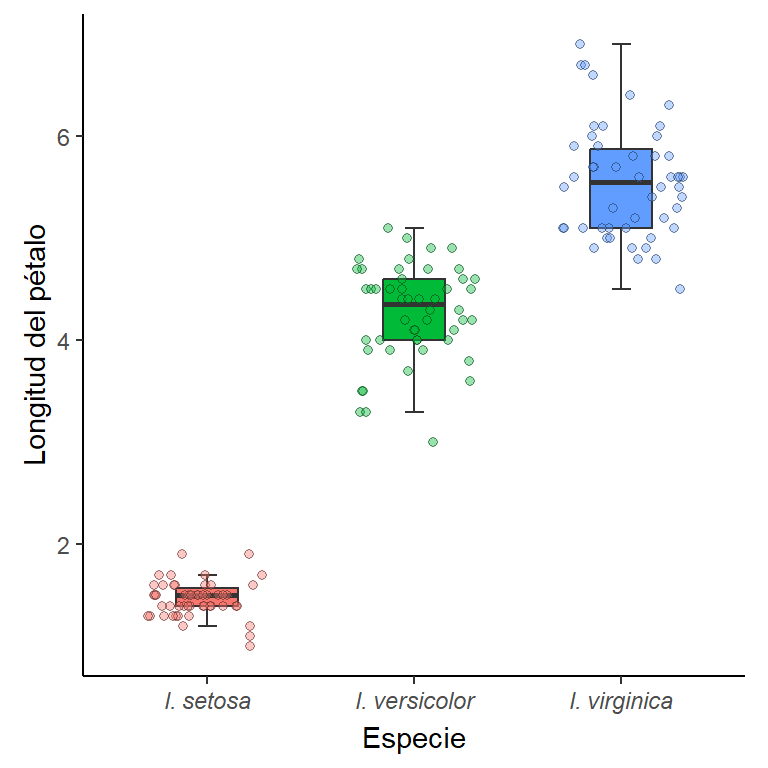
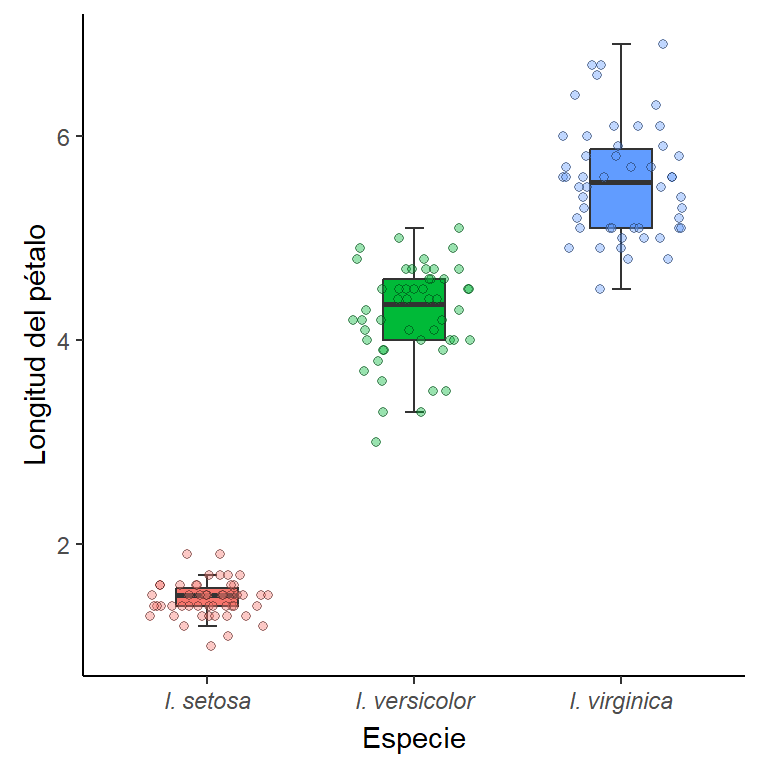
Publish site to docs/

diff --git a/docs/unidad4/GraficosBase.html b/docs/unidad4/GraficosBase.html
@@ -307,7 +307,7 @@ pre > code.sourceCode > span > a:first-child::before { text-decoration: underlin
 </li>
           <li class="sidebar-item">
   <div class="sidebar-item-container"> 
-  <a href="../ggplot2.qmd" class="sidebar-item-text sidebar-link">
+  <a href="../unidad4/ggplot2.html" class="sidebar-item-text sidebar-link">
  <span class="menu-text">Gráficos con <em>ggplot2</em></span></a>
   </div>
 </li>
@@ -400,8 +400,8 @@ pre > code.sourceCode > span > a:first-child::before { text-decoration: underlin
 <p>La representación gráfica de datos y resultados es una parte importante de nuestro quehacer habitual en ámbitos académicos y científicos. Una de las razones de la gran popularidad de R yace en su excelente apartado gráfico, con el cual se pueden producir gráficos de buena calidad listos para publicar. De forma general, existen <u id="comentario">dos métodos principales</u> para realizar gráficos en R: el basado en el sistema básico de <code>R base</code> y el basado en el paquete <code>ggplot2</code>. Ambas opciones poseen sus propias ventajas y desventajas y generalmente son usados a la par. Es decir, en algunas ocasiones convendrá o será más cómodo, utilizar uno y, en otras ocasiones, será mejor opción el otro.</p>
 <div class="cell">
 <div class="cell-output-display">
-<span class="tippy html-widget html-fill-item" height="464px" id="htmlwidget-44e0b6c86a6d7bf6f5b7" width="100%"></span>
-<script type="application/json" data-for="htmlwidget-44e0b6c86a6d7bf6f5b7">{"x":{"element":"comentario","opts":{"content":"<span style='font-size:14px;'>Existen otros paquetes que profundizan funcionalidades específicas que trascienden los objetivos de este curso. Aquí puede encontrar <a href='https://www.geeksforgeeks.org/top-r-libraries-for-data-visualization/' target='_blank'>una lista de los paquetes top en 2024<\/a> según un sitio especializado.<\/span>","interactive":"true"}},"evals":[],"jsHooks":[]}</script>
+<span class="tippy html-widget html-fill-item" height="464px" id="htmlwidget-fd6f1892f0e810638429" width="100%"></span>
+<script type="application/json" data-for="htmlwidget-fd6f1892f0e810638429">{"x":{"element":"comentario","opts":{"content":"<span style='font-size:14px;'>Existen otros paquetes que profundizan funcionalidades específicas que trascienden los objetivos de este curso. Aquí puede encontrar <a href='https://www.geeksforgeeks.org/top-r-libraries-for-data-visualization/' target='_blank'>una lista de los paquetes top en 2024<\/a> según un sitio especializado.<\/span>","interactive":"true"}},"evals":[],"jsHooks":[]}</script>
 </div>
 </div>
 <p>En esta clase veremos como construir gráficos con <code>R base</code>. Para empezar, definiremos un concepto relativo al <em>nivel</em> de la función utilizada. Cuando grafiquemos podremos utilizaremos funciones de <em>alto nivel</em>, que son aquellas funciones que crean nuevos gráficos, generalmente junto a los principales ejes, etiquetas ó títulos (e.g.&nbsp;<code>plot()</code>, <code>hist()</code>, etc.); y funciones de <em>bajo nivel</em>, que son aquellas con las que podremos añadir elementos extras a un gráfico ya creado, como puntos, líneas, flechas u otras etiquetas (e.g.&nbsp;<code>points()</code>, <code>text()</code>, etc.). La <strong>combinación de funciones de alto y bajo nivel nos permite realizar una enorme personalización del gráfico</strong>, aunque en algunas ocasiones esto puede llevar a que tengamos que definir cada aspecto del mismo. Este compromiso entre el nivel de personalización deseado y la cantidad de líneas de código necesarias puede parecer un poco abrumador al comienzo; pero, luego de un tiempo, en general optaremos siempre por una completa personalización. Sumado a esto, con el tiempo acumularemos plantillas propias para ciertos tipos de gráficos que realicemos frecuentemente, y solo nos bastará con cambiar los datos y algunos parámetros menores para obtener un nuevo gráfico listo para su publicación (o al menos su revisión 😬).</p>
@@ -624,17 +624,17 @@ Coefficients:
 <span id="cb10-6"><a href="#cb10-6" aria-hidden="true" tabindex="-1"></a>                           )</span>
 <span id="cb10-7"><a href="#cb10-7" aria-hidden="true" tabindex="-1"></a>toplot[<span class="fu">sample</span>(<span class="fu">nrow</span>(toplot), <span class="dv">10</span>),]</span></code><button title="Copiar" class="code-copy-button"><i class="bi"></i></button></pre></div>
 <div class="cell-output cell-output-stdout">
-<pre><code>   Sepal.Length Petal.Length    Species   Spe.Color
-82          5.5          3.7 versicolor  dodgerblue
-14          4.3          1.1     setosa forestgreen
-70          5.6          3.9 versicolor  dodgerblue
-32          5.4          1.5     setosa forestgreen
-37          5.5          1.3     setosa forestgreen
-98          6.2          4.3 versicolor  dodgerblue
-68          5.8          4.1 versicolor  dodgerblue
-65          5.6          3.6 versicolor  dodgerblue
-76          6.6          4.4 versicolor  dodgerblue
-22          5.1          1.5     setosa forestgreen</code></pre>
+<pre><code>    Sepal.Length Petal.Length    Species   Spe.Color
+111          6.5          5.1  virginica         red
+141          6.7          5.6  virginica         red
+31           4.8          1.6     setosa forestgreen
+17           5.4          1.3     setosa forestgreen
+53           6.9          4.9 versicolor  dodgerblue
+85           5.4          4.5 versicolor  dodgerblue
+25           4.8          1.9     setosa forestgreen
+36           5.0          1.2     setosa forestgreen
+96           5.7          4.2 versicolor  dodgerblue
+121          6.9          5.7  virginica         red</code></pre>
 </div>
 </div>
 <div class="cell" data-layout-align="center">

diff --git a/docs/unidad5/Funciones.html b/docs/unidad5/Funciones.html
@@ -291,7 +291,7 @@ pre > code.sourceCode > span > a:first-child::before { text-decoration: underlin
 </li>
           <li class="sidebar-item">
   <div class="sidebar-item-container"> 
-  <a href="../ggplot2.qmd" class="sidebar-item-text sidebar-link">
+  <a href="../unidad4/ggplot2.html" class="sidebar-item-text sidebar-link">
  <span class="menu-text">Gráficos con <em>ggplot2</em></span></a>
   </div>
 </li>
@@ -491,7 +491,7 @@ pre > code.sourceCode > span > a:first-child::before { text-decoration: underlin
 <div class="sourceCode cell-code" id="cb21"><pre class="sourceCode r code-with-copy"><code class="sourceCode r"><span id="cb21-1"><a href="#cb21-1" aria-hidden="true" tabindex="-1"></a>pesos_aleatorios <span class="ot">&lt;-</span> <span class="fu">sample</span>(<span class="fu">c</span>(<span class="fl">0.5</span>, <span class="fl">0.75</span>, <span class="dv">1</span>), <span class="fu">length</span>(<span class="dv">1</span><span class="sc">:</span><span class="dv">30</span>), <span class="at">replace =</span> <span class="cn">TRUE</span>)</span>
 <span id="cb21-2"><a href="#cb21-2" aria-hidden="true" tabindex="-1"></a><span class="fu">valor_promedio</span>(<span class="at">x =</span> <span class="dv">1</span><span class="sc">:</span><span class="dv">30</span>, <span class="at">pesos =</span> pesos_aleatorios)</span></code><button title="Copiar" class="code-copy-button"><i class="bi"></i></button></pre></div>
 <div class="cell-output cell-output-stdout">
-<pre><code>[1] 11.85833</code></pre>
+<pre><code>[1] 11.38333</code></pre>
 </div>
 </div>
 </section>
@@ -579,20 +579,19 @@ Se tomó el valor por defecto.</code></pre>
 <span id="cb32-4"><a href="#cb32-4" aria-hidden="true" tabindex="-1"></a>lista_numeros</span></code><button title="Copiar" class="code-copy-button"><i class="bi"></i></button></pre></div>
 <div class="cell-output cell-output-stdout">
 <pre><code>[[1]]
- [1] 510 575 304 817 603 271 376 589 538 766 620 454 328 107 960 415 265 436 834
-[20] 874 231 702  14 593 473 851 747 277 665 863 393 307 272 424 551 844 391 787
-[39] 494 883 984 901 496 891 491 400 229 511 257 763
+ [1] 363 849 435 577 113 540 907 634 642 688 707 138 583 269  58 127 940 714 402
+[20] 359  96 886 178 876 805 243 419 388   7  36 456 799 340 842 139  47 522 281
+[39] 516 770 811 850 422 240 894 306 923 135 598 345
 
 [[2]]
- [1] 935 547  56 871 238 208  50 886 247 950 266 269 100  12 124 403 872  22  49
-[20] 736 969 939 506 814 694 405 752 681 772  33 432 383 663 150 558 767 295 241
-[39]  66 322 947 584 501  11 125 278  72 494 692  93
+ [1] 451 429 276 778 787 725 709 923 379 151 568   2 878  38 703 115 934 749 377
+[20] 117 674 159 303 646 956 154 394 346 868 390 403 125 368 487  87 446 869  99
+[39] 681 731 907 906 693  67 839 433 706 542 596 904
 
 [[3]]
- [1]  130  973  405  244  400  717  149  772  415  712  214  208  286  698  649
-[16]  572  962  559  450  137  425  353   58  808  116  479  514   22  281  857
-[31]   23  510  663  812  487  139 1000  561  881  624  705    3  497  930  581
-[46]  475  381  695  607  665</code></pre>
+ [1] 767 778  34  40 554 512 904 392 781 353 450 507 600 705 180 254 189 197 688
+[20] 559 988 145  73  45 218 700 772 141 854 691 998 499 292 109 372 391 991 966
+[39] 511 844 877 684 356 595 537  81 970 601 868 578</code></pre>
 </div>
 </div>
 <p>La función <code>sapply()</code> aplica una función dada a un objeto de tipo <code>list()</code>, y devuelve un vector. En este ejemplo, utilizaremos la función recientemente creada (<code>valor_promedio()</code>), para calcular el promedio de cada conjunto de números de la lista (indicados en el primer argumento):</p>
@@ -600,7 +599,7 @@ Se tomó el valor por defecto.</code></pre>
 <div class="sourceCode cell-code" id="cb34"><pre class="sourceCode r code-with-copy"><code class="sourceCode r"><span id="cb34-1"><a href="#cb34-1" aria-hidden="true" tabindex="-1"></a>promedios <span class="ot">&lt;-</span> <span class="fu">sapply</span>(lista_numeros, <span class="at">FUN =</span> valor_promedio)</span>
 <span id="cb34-2"><a href="#cb34-2" aria-hidden="true" tabindex="-1"></a>promedios</span></code><button title="Copiar" class="code-copy-button"><i class="bi"></i></button></pre></div>
 <div class="cell-output cell-output-stdout">
-<pre><code>[1] 546.54 441.60 496.08</code></pre>
+<pre><code>[1] 484.30 517.36 523.82</code></pre>
 </div>
 </div>
 <p>Notar que para el argumento <code>FUN</code> indicamos el nombre de la función sin los paréntesis, la cual debe existir en el entorno (cargada por el usuario o por defecto en R).</p>
@@ -610,7 +609,7 @@ Se tomó el valor por defecto.</code></pre>
 <span id="cb36-2"><a href="#cb36-2" aria-hidden="true" tabindex="-1"></a>promedios <span class="ot">&lt;-</span> <span class="fu">sapply</span>(lista_numeros, <span class="at">FUN =</span> valor_promedio, <span class="at">pesos =</span> pesos_aleatorios)</span>
 <span id="cb36-3"><a href="#cb36-3" aria-hidden="true" tabindex="-1"></a>promedios</span></code><button title="Copiar" class="code-copy-button"><i class="bi"></i></button></pre></div>
 <div class="cell-output cell-output-stdout">
-<pre><code>[1] 391.59 304.35 366.85</code></pre>
+<pre><code>[1] 393.765 416.045 415.200</code></pre>
 </div>
 </div>
 <p><strong>Para pensar:</strong> tal cual como está programada, la función <code>valor_promedio()</code> no es útil para ser utilizada con la función <code>sapply()</code>, especialmente en cuanto al argumento <code>pesos</code>. ¿Por qué?</p>

diff --git a/docs/unidad2/Tablas.html b/docs/unidad2/Tablas.html
@@ -307,7 +307,7 @@ pre > code.sourceCode > span > a:first-child::before { text-decoration: underlin
 </li>
           <li class="sidebar-item">
   <div class="sidebar-item-container"> 
-  <a href="../ggplot2.qmd" class="sidebar-item-text sidebar-link">
+  <a href="../unidad4/ggplot2.html" class="sidebar-item-text sidebar-link">
  <span class="menu-text">Gráficos con <em>ggplot2</em></span></a>
   </div>
 </li>
@@ -399,8 +399,8 @@ pre > code.sourceCode > span > a:first-child::before { text-decoration: underlin
 <p>Para crear una tabla desde cero, en R utilizamos la <u id="table_classes">clase</u> <code>data.frame</code>, y una función con el mismo nombre para generarla:</p>
 <div class="cell">
 <div class="cell-output-display">
-<span class="tippy html-widget html-fill-item" height="464px" id="htmlwidget-e829bdcf55e08b2cdd9a" width="100%"></span>
-<script type="application/json" data-for="htmlwidget-e829bdcf55e08b2cdd9a">{"x":{"element":"table_classes","opts":{"content":"<span style=\"font-size:16px;\">Si bien la clase más utilizada es <code>data.frame<\/code>, existen otras formas de generar tablas. Por ejemplo, a través de la función <code>data.table()<\/code> (del paquete <code>data.table<\/code>), o a través de la función <code>tibble()<\/code> (del paquete <code>tibble<\/code>).<\/span>"}},"evals":[],"jsHooks":[]}</script>
+<span class="tippy html-widget html-fill-item" height="464px" id="htmlwidget-75b3b9c415dfd99f71f7" width="100%"></span>
+<script type="application/json" data-for="htmlwidget-75b3b9c415dfd99f71f7">{"x":{"element":"table_classes","opts":{"content":"<span style=\"font-size:16px;\">Si bien la clase más utilizada es <code>data.frame<\/code>, existen otras formas de generar tablas. Por ejemplo, a través de la función <code>data.table()<\/code> (del paquete <code>data.table<\/code>), o a través de la función <code>tibble()<\/code> (del paquete <code>tibble<\/code>).<\/span>"}},"evals":[],"jsHooks":[]}</script>
 </div>
 </div>
 <div class="cell">
@@ -1007,8 +1007,8 @@ Levels: Corto Largo Mediano</code></pre>
 <p>Por ejemplo, la salida de la función <code>lm()</code>, que confecciona una <u id="lm">regresión lineal</u>, es una lista:</p>
 <div class="cell">
 <div class="cell-output-display">
-<span class="tippy html-widget html-fill-item" height="464px" id="htmlwidget-fc549033ed90743dbc4a" width="100%"></span>
-<script type="application/json" data-for="htmlwidget-fc549033ed90743dbc4a">{"x":{"element":"lm","opts":{"content":"<span style=\"font-size:16px;\">Una regresión líneal relaciona una variable respuesta con una o más variables predictoras. Para el caso de una única variable predictora, al final se obtiene una recta con su ordenada al origen y su pendiente asociada.<\/span>"}},"evals":[],"jsHooks":[]}</script>
+<span class="tippy html-widget html-fill-item" height="464px" id="htmlwidget-73dface21e772197c442" width="100%"></span>
+<script type="application/json" data-for="htmlwidget-73dface21e772197c442">{"x":{"element":"lm","opts":{"content":"<span style=\"font-size:16px;\">Una regresión líneal relaciona una variable respuesta con una o más variables predictoras. Para el caso de una única variable predictora, al final se obtiene una recta con su ordenada al origen y su pendiente asociada.<\/span>"}},"evals":[],"jsHooks":[]}</script>
 </div>
 </div>
 <div class="cell">

diff --git a/docs/unidad3/ControlFlujo.html b/docs/unidad3/ControlFlujo.html
@@ -291,7 +291,7 @@ pre > code.sourceCode > span > a:first-child::before { text-decoration: underlin
 </li>
           <li class="sidebar-item">
   <div class="sidebar-item-container"> 
-  <a href="../ggplot2.qmd" class="sidebar-item-text sidebar-link">
+  <a href="../unidad4/ggplot2.html" class="sidebar-item-text sidebar-link">
  <span class="menu-text">Gráficos con <em>ggplot2</em></span></a>
   </div>
 </li>
@@ -778,9 +778,9 @@ pre > code.sourceCode > span > a:first-child::before { text-decoration: underlin
 <span id="cb43-2"><a href="#cb43-2" aria-hidden="true" tabindex="-1"></a>mat</span></code><button title="Copiar" class="code-copy-button"><i class="bi"></i></button></pre></div>
 <div class="cell-output cell-output-stdout">
 <pre><code>     [,1] [,2] [,3]
-[1,]   16    2   26
-[2,]  100   65   86
-[3,]   76   64    8</code></pre>
+[1,]   88    8   97
+[2,]   28   43   32
+[3,]   80   25   59</code></pre>
 </div>
 <div class="sourceCode cell-code" id="cb45"><pre class="sourceCode r code-with-copy"><code class="sourceCode r"><span id="cb45-1"><a href="#cb45-1" aria-hidden="true" tabindex="-1"></a><span class="cf">for</span> (i <span class="cf">in</span> <span class="dv">1</span><span class="sc">:</span><span class="fu">nrow</span>(mat)) {</span>
 <span id="cb45-2"><a href="#cb45-2" aria-hidden="true" tabindex="-1"></a>  <span class="cf">for</span>( j <span class="cf">in</span> <span class="dv">1</span><span class="sc">:</span><span class="fu">ncol</span>(mat)) {</span>
@@ -788,15 +788,15 @@ pre > code.sourceCode > span > a:first-child::before { text-decoration: underlin
 <span id="cb45-4"><a href="#cb45-4" aria-hidden="true" tabindex="-1"></a>  }</span>
 <span id="cb45-5"><a href="#cb45-5" aria-hidden="true" tabindex="-1"></a>}</span></code><button title="Copiar" class="code-copy-button"><i class="bi"></i></button></pre></div>
 <div class="cell-output cell-output-stdout">
-<pre><code>[1] "El elemento de la fila 1 y columna 1 es igual a 16"
-[1] "El elemento de la fila 1 y columna 2 es igual a 2"
-[1] "El elemento de la fila 1 y columna 3 es igual a 26"
-[1] "El elemento de la fila 2 y columna 1 es igual a 100"
-[1] "El elemento de la fila 2 y columna 2 es igual a 65"
-[1] "El elemento de la fila 2 y columna 3 es igual a 86"
-[1] "El elemento de la fila 3 y columna 1 es igual a 76"
-[1] "El elemento de la fila 3 y columna 2 es igual a 64"
-[1] "El elemento de la fila 3 y columna 3 es igual a 8"</code></pre>
+<pre><code>[1] "El elemento de la fila 1 y columna 1 es igual a 88"
+[1] "El elemento de la fila 1 y columna 2 es igual a 8"
+[1] "El elemento de la fila 1 y columna 3 es igual a 97"
+[1] "El elemento de la fila 2 y columna 1 es igual a 28"
+[1] "El elemento de la fila 2 y columna 2 es igual a 43"
+[1] "El elemento de la fila 2 y columna 3 es igual a 32"
+[1] "El elemento de la fila 3 y columna 1 es igual a 80"
+[1] "El elemento de la fila 3 y columna 2 es igual a 25"
+[1] "El elemento de la fila 3 y columna 3 es igual a 59"</code></pre>
 </div>
 </div>
 <p>¿Cómo funciona este código? La mejor forma de entender un bucle individual, o bucles anidados, es evaluar el primer caso de la serie de <em>repeticiones</em> que el bucle está efectuando y evaluar el código para el caso. Aquí, el primer caso sería cuando <code>i = 1</code> y <code>j = 1</code>.</p>

diff --git a/docs/unidad4/ggplot2.html b/docs/unidad4/ggplot2.html
@@ -307,7 +307,7 @@ pre > code.sourceCode > span > a:first-child::before { text-decoration: underlin
 </li>
           <li class="sidebar-item">
   <div class="sidebar-item-container"> 
-  <a href="../ggplot2.qmd" class="sidebar-item-text sidebar-link">
+  <a href="../unidad4/ggplot2.html" class="sidebar-item-text sidebar-link active">
  <span class="menu-text">Gráficos con <em>ggplot2</em></span></a>
   </div>
 </li>
@@ -420,8 +420,8 @@ pre > code.sourceCode > span > a:first-child::before { text-decoration: underlin
 <p><strong>Para probar</strong>: Escriba en la consola <code>geom_</code>, y espera a observar las sugerencias de funciones disponibles para la generación de distintos tipos de gráficos en <em>ggplot2</em>.</p>
 <div class="cell">
 <div class="cell-output-display">
-<span class="tippy html-widget html-fill-item" height="464px" id="htmlwidget-e13e8377b43669b5087f" width="100%"></span>
-<script type="application/json" data-for="htmlwidget-e13e8377b43669b5087f">{"x":{"element":"aes","opts":{"content":"<span style=\"font-size:16px;\">El término viene del inglés \"aesthetic mappings\", lo que más o menos se traduce como \"mapeo gráfico de las variables\".<\/span>"}},"evals":[],"jsHooks":[]}</script>
+<span class="tippy html-widget html-fill-item" height="464px" id="htmlwidget-aeb6f27b7791b3b31df4" width="100%"></span>
+<script type="application/json" data-for="htmlwidget-aeb6f27b7791b3b31df4">{"x":{"element":"aes","opts":{"content":"<span style=\"font-size:16px;\">El término viene del inglés \"aesthetic mappings\", lo que más o menos se traduce como \"mapeo gráfico de las variables\".<\/span>"}},"evals":[],"jsHooks":[]}</script>
 </div>
 </div>
 <p>El grado de personalización de los gráficos con <em>ggplot2</em> es inmenso. Por ejemplo, podemos cambiar el color, tamaño, forma y transparencia:</p>
@@ -763,8 +763,8 @@ pre > code.sourceCode > span > a:first-child::before { text-decoration: underlin
 </ol>
 <div class="cell">
 <div class="cell-output-display">
-<span class="tippy html-widget html-fill-item" height="464px" id="htmlwidget-9ce164fe78ed094db73a" width="100%"></span>
-<script type="application/json" data-for="htmlwidget-9ce164fe78ed094db73a">{"x":{"element":"ppi","opts":{"content":"<span style=\"font-size:16px;\">\"points per inch\" o \"puntos por pulgada\" en español. Análogo a \"dpi\" (\"dots per inch\").<\/span>"}},"evals":[],"jsHooks":[]}</script>
+<span class="tippy html-widget html-fill-item" height="464px" id="htmlwidget-dd016e0c4e41269283cf" width="100%"></span>
+<script type="application/json" data-for="htmlwidget-dd016e0c4e41269283cf">{"x":{"element":"ppi","opts":{"content":"<span style=\"font-size:16px;\">\"points per inch\" o \"puntos por pulgada\" en español. Análogo a \"dpi\" (\"dots per inch\").<\/span>"}},"evals":[],"jsHooks":[]}</script>
 </div>
 </div>
 <p><br></p>

diff --git a/docs/unidad1/FlujoTrabajo.html b/docs/unidad1/FlujoTrabajo.html
@@ -307,7 +307,7 @@ pre > code.sourceCode > span > a:first-child::before { text-decoration: underlin
 </li>
           <li class="sidebar-item">
   <div class="sidebar-item-container"> 
-  <a href="../ggplot2.qmd" class="sidebar-item-text sidebar-link">
+  <a href="../unidad4/ggplot2.html" class="sidebar-item-text sidebar-link">
  <span class="menu-text">Gráficos con <em>ggplot2</em></span></a>
   </div>
 </li>
@@ -393,8 +393,8 @@ pre > code.sourceCode > span > a:first-child::before { text-decoration: underlin
 <p>Ademas del código propiamente dicho, <strong>ningún script está completo si no está correctamente anotado</strong>, es decir, si no contiene texto humanamente legible que permita seguir qué es lo que se está haciendo en el mismo. La forma de introducir un <u id="comentario">comentario</u> en el código es anteponer <code>#</code> a la linea en cuestión. De esta forma, el interprete de código evitará su ejecución.</p>
 <div class="cell">
 <div class="cell-output-display">
-<span class="tippy html-widget html-fill-item" height="464px" id="htmlwidget-f3d6c4a547a231d73377" width="100%"></span>
-<script type="application/json" data-for="htmlwidget-f3d6c4a547a231d73377">{"x":{"element":"comentario","opts":{"content":"<span style='font-size:16px;'>Todo texto explicativo que no deseamos que sea ejecutado por el interprete de R.<\/span>"}},"evals":[],"jsHooks":[]}</script>
+<span class="tippy html-widget html-fill-item" height="464px" id="htmlwidget-9480a202d1272c8be14d" width="100%"></span>
+<script type="application/json" data-for="htmlwidget-9480a202d1272c8be14d">{"x":{"element":"comentario","opts":{"content":"<span style='font-size:16px;'>Todo texto explicativo que no deseamos que sea ejecutado por el interprete de R.<\/span>"}},"evals":[],"jsHooks":[]}</script>
 </div>
 </div>
 <div class="cell">

diff --git a/docs/unidad1/UsandoR.html b/docs/unidad1/UsandoR.html
@@ -307,7 +307,7 @@ pre > code.sourceCode > span > a:first-child::before { text-decoration: underlin
 </li>
           <li class="sidebar-item">
   <div class="sidebar-item-container"> 
-  <a href="../ggplot2.qmd" class="sidebar-item-text sidebar-link">
+  <a href="../unidad4/ggplot2.html" class="sidebar-item-text sidebar-link">
  <span class="menu-text">Gráficos con <em>ggplot2</em></span></a>
   </div>
 </li>
@@ -701,8 +701,8 @@ pre > code.sourceCode > span > a:first-child::before { text-decoration: underlin
 </ul>
 <div class="cell">
 <div class="cell-output-display">
-<span class="tippy html-widget html-fill-item" height="464px" id="htmlwidget-b1952be14e17f4f3a72f" width="100%"></span>
-<script type="application/json" data-for="htmlwidget-b1952be14e17f4f3a72f">{"x":{"element":"manteniendo","opts":{"content":"<span style='font-size:16px;'>i.e. los desarrolladores ya no trabajan en el paquete y no lo actualizan, corrigen, etc.<\/span>"}},"evals":[],"jsHooks":[]}</script>
+<span class="tippy html-widget html-fill-item" height="464px" id="htmlwidget-215c8c969f7ed11a89b9" width="100%"></span>
+<script type="application/json" data-for="htmlwidget-215c8c969f7ed11a89b9">{"x":{"element":"manteniendo","opts":{"content":"<span style='font-size:16px;'>i.e. los desarrolladores ya no trabajan en el paquete y no lo actualizan, corrigen, etc.<\/span>"}},"evals":[],"jsHooks":[]}</script>
 </div>
 </div>
 <ul>

diff --git a/docs/unidad1/Vectores.html b/docs/unidad1/Vectores.html
@@ -291,7 +291,7 @@ pre > code.sourceCode > span > a:first-child::before { text-decoration: underlin
 </li>
           <li class="sidebar-item">
   <div class="sidebar-item-container"> 
-  <a href="../ggplot2.qmd" class="sidebar-item-text sidebar-link">
+  <a href="../unidad4/ggplot2.html" class="sidebar-item-text sidebar-link">
  <span class="menu-text">Gráficos con <em>ggplot2</em></span></a>
   </div>
 </li>

diff --git a/docs/unidad1/IntroR.html b/docs/unidad1/IntroR.html
@@ -257,7 +257,7 @@ ul.task-list li input[type="checkbox"] {
 </li>
           <li class="sidebar-item">
   <div class="sidebar-item-container"> 
-  <a href="../ggplot2.qmd" class="sidebar-item-text sidebar-link">
+  <a href="../unidad4/ggplot2.html" class="sidebar-item-text sidebar-link">
  <span class="menu-text">Gráficos con <em>ggplot2</em></span></a>
   </div>
 </li>

diff --git a/docs/codigo_colab.html b/docs/codigo_colab.html
@@ -257,7 +257,7 @@ ul.task-list li input[type="checkbox"] {
 </li>
           <li class="sidebar-item">
   <div class="sidebar-item-container"> 
-  <a href="./ggplot2.qmd" class="sidebar-item-text sidebar-link">
+  <a href="./unidad4/ggplot2.html" class="sidebar-item-text sidebar-link">
  <span class="menu-text">Gráficos con <em>ggplot2</em></span></a>
   </div>
 </li>

diff --git a/docs/index.html b/docs/index.html
@@ -257,7 +257,7 @@ ul.task-list li input[type="checkbox"] {
 </li>
           <li class="sidebar-item">
   <div class="sidebar-item-container"> 
-  <a href="./ggplot2.qmd" class="sidebar-item-text sidebar-link">
+  <a href="./unidad4/ggplot2.html" class="sidebar-item-text sidebar-link">
  <span class="menu-text">Gráficos con <em>ggplot2</em></span></a>
   </div>
 </li>

diff --git a/docs/unidad1/Operadores.html b/docs/unidad1/Operadores.html
@@ -320,7 +320,7 @@ window.Quarto = {
 </li>
           <li class="sidebar-item">
   <div class="sidebar-item-container"> 
-  <a href="../ggplot2.qmd" class="sidebar-item-text sidebar-link">
+  <a href="../unidad4/ggplot2.html" class="sidebar-item-text sidebar-link">
  <span class="menu-text">Gráficos con <em>ggplot2</em></span></a>
   </div>
 </li>
